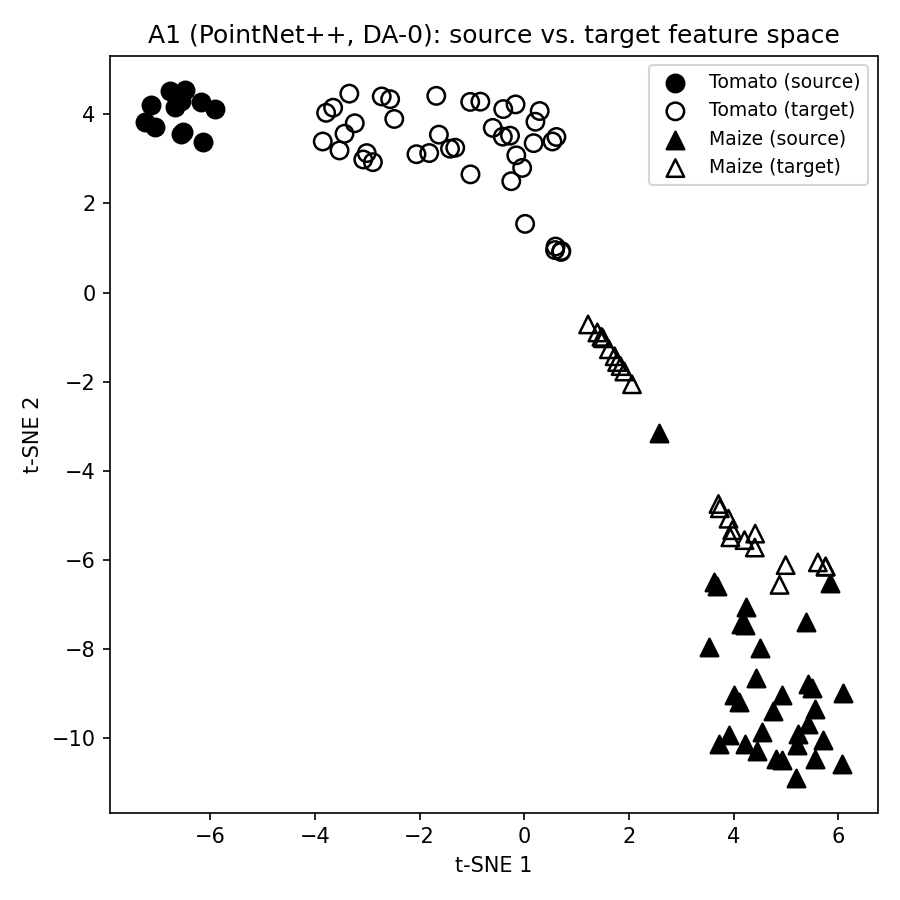
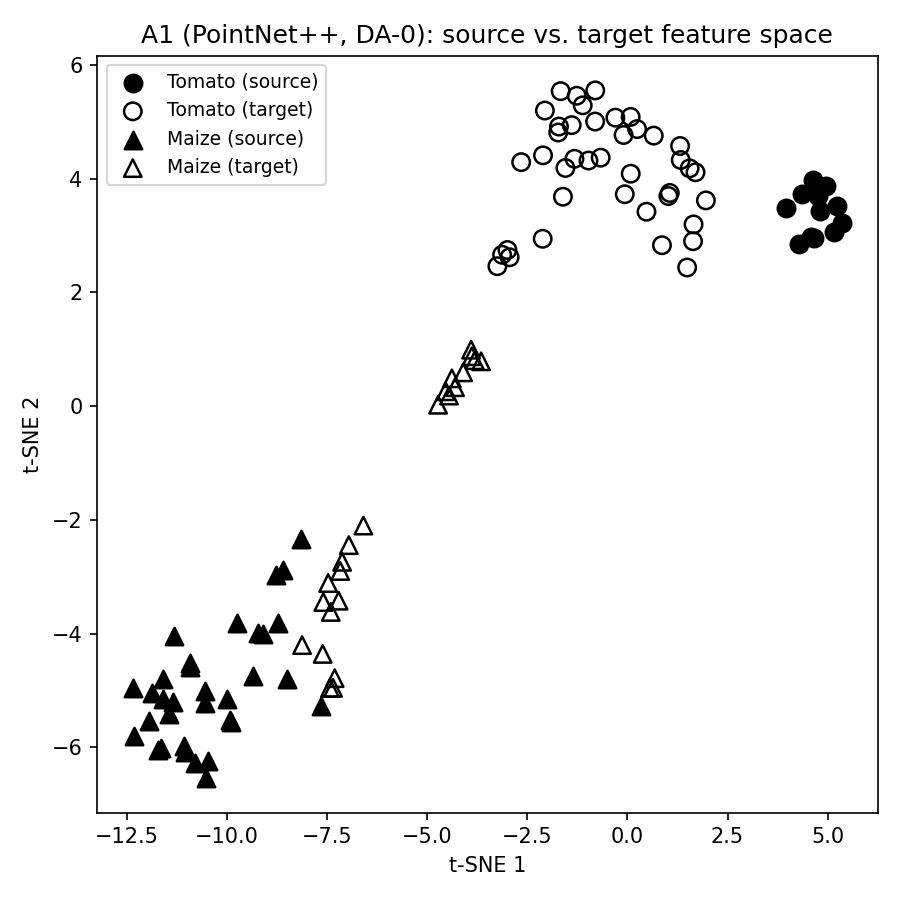
Regenerate t-SNE figures with the verified seed fix; correct an overclaim
A1 (PointNet++): story unchanged, same qualitative pattern as before
the fix.

B1/B3b (KPConv): regenerating with the properly-seeded, fully
reproducible extraction surfaced a real correction needed to an earlier
claim (chat + a previous commit message) that B3b's source/target
Tomato clusters sit "directly adjacent" -- they don't, in this
corrected draw; they're two distinct clusters. What the corrected plot
DOES still show clearly: Maize forms one clean, tightly-separated
cluster under B3b (vs. B1's more scattered picture), a real, more
modest claim than the original one. Documented explicitly in
step_notes/Report_Figures.md rather than silently swapping the image
and leaving the old description standing -- flagged as one seeded data
point, not a fully characterized finding (would need multiple seeds to
check how consistent this reading is).

diff --git a/step_notes/Report_Figures.md b/step_notes/Report_Figures.md
@@ -88,6 +88,26 @@ every PointNet2/DGCNN function) — verified by repeated-call tests for both bac
 asserted. DGCNN needs no such fix (no known eval-time randomness source in that architecture,
 confirmed by its confusion-matrix numbers matching `run.log` exactly).
 
+**Correction to an earlier claim about the B1-vs-B3b t-SNE pair**: before this investigation, the
+B1/B3b t-SNE plots (generated unseeded, same as everything else at that point) were described as
+showing source and target Tomato "sitting directly adjacent" under B3b (DA-S) — read as a clean
+visual confirmation of the quantitative win. After regenerating both with the verified fix
+(`results/report_figures/tsne_B1_kpconv_da0.png`, `tsne_B3b_kpconv_da_s.png`), **that specific
+description does not hold as cleanly**: B3b's Tomato source and target now form two distinct
+clusters, not one merged one (Maize, by contrast, does form one clean, tightly-separated cluster
+in the corrected B3b plot — visibly better species separation than B1's more scattered picture).
+Flagged here explicitly rather than left as a stale claim: the honest reading of the corrected
+figure is that DA-S visibly improves species (Tomato vs. Maize) separability in feature space,
+not that it visibly merges the two domains' Tomato distributions into one — a real, more modest
+claim than what was said in chat/the original commit message for that figure. The KPConv
+kernel-rotation randomness (see `step_notes/KPConv_Eval_Nondeterminism.md`) plausibly explains
+why the unseeded draw looked more merged than a "typical" draw — a single random kernel geometry
+can shift the fine embedding structure even when the coarse classification behavior is stable;
+this has not been separately verified by running multiple seeds to check how consistent the
+"two distinct clusters" reading is, and should be treated as one data point, not a fully
+characterized finding, the same caution now applied to any single seeded t-SNE draw for this
+backbone.
+
 ## Figure 1: C1 (DGCNN, DA-0) — source vs. target feature space
 
 `results/C1_dgcnn_da0_clsseg/tsne_example.png`, generated by `scripts/tsne_feature_plot.py`.
